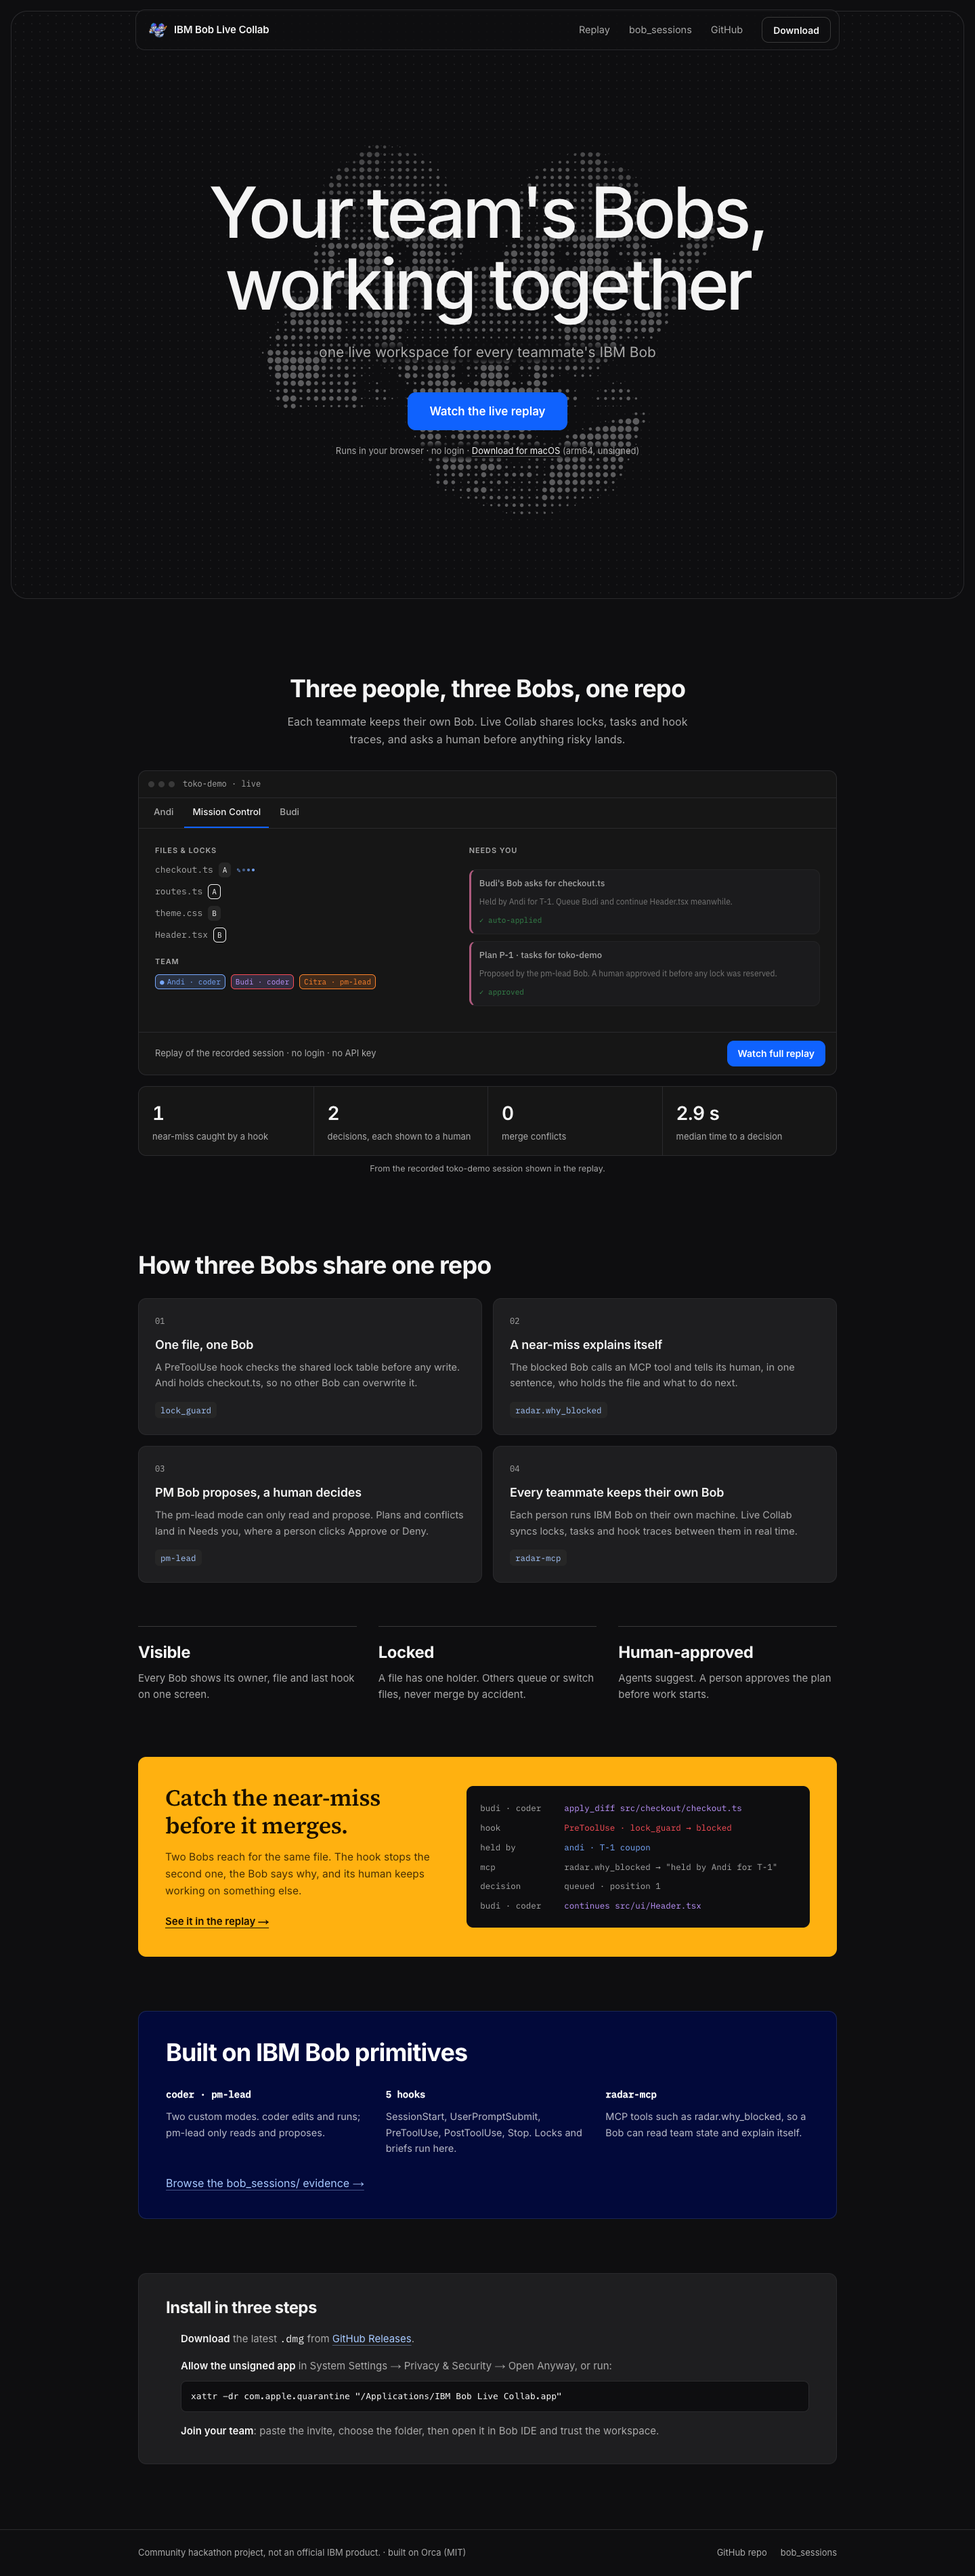
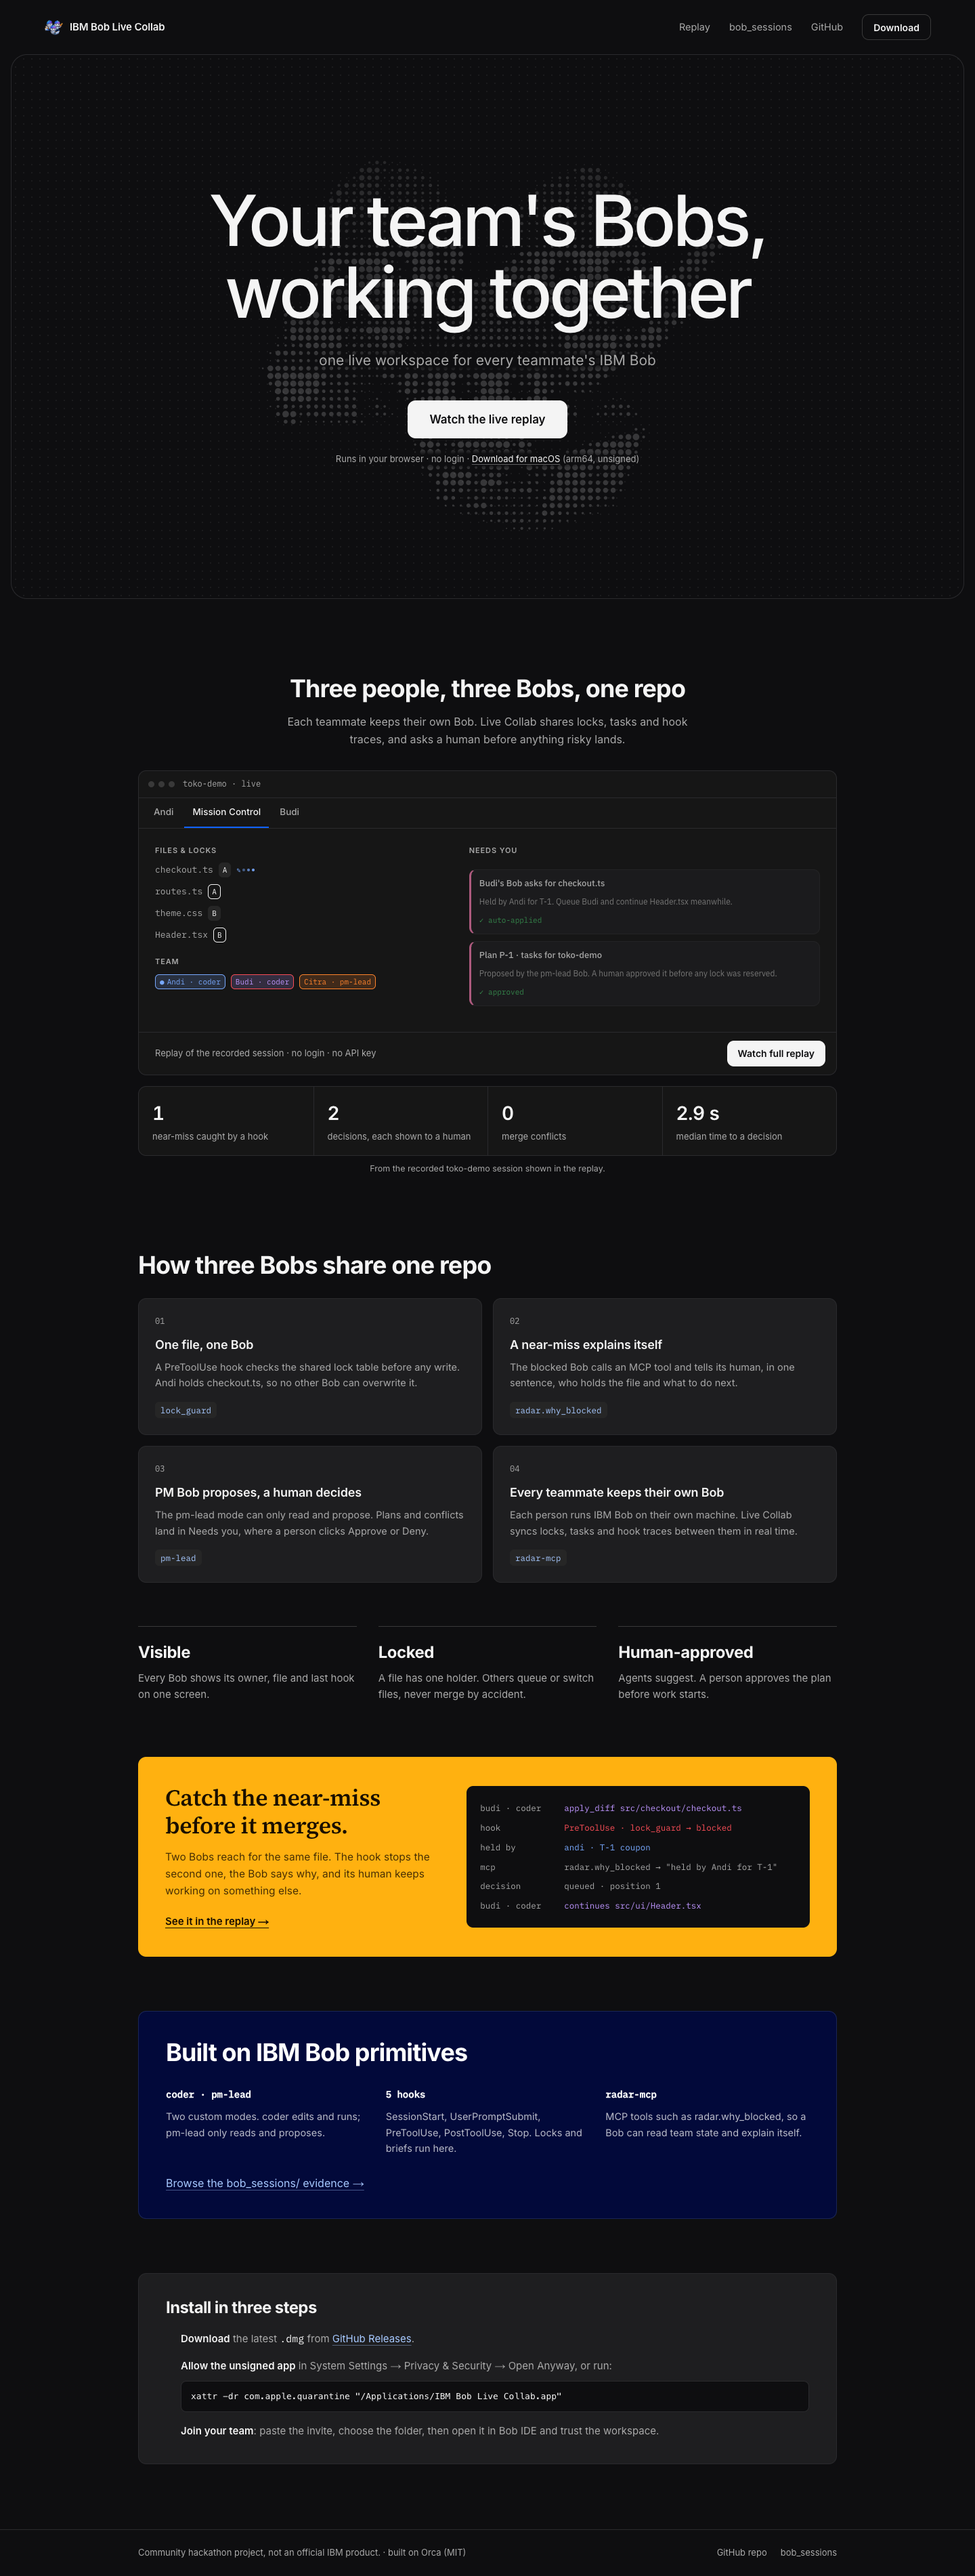
fase-11D1: full-width nav that morphs on scroll, white primary button
- Nav spans the page at the top and becomes a floating pill once the
  page scrolls; sections below the fold reveal on scroll (CSS view
  timeline, no JS)
- Primary button is white; halftone crew opacity 0.34 -> 0.18

diff --git a/radar/packages/web/app/page.tsx b/radar/packages/web/app/page.tsx
@@ -1,4 +1,5 @@
 import { Inter, Source_Serif_4 } from 'next/font/google';
+import { LandingNav } from '../src/landing-nav';
 import { LandingProductWindow } from '../src/landing-product-window';
 import { SITE } from '../src/site';
 import metaRaw from '../public/demo/meta.json';
@@ -100,27 +101,13 @@ export default function HomePage() {
         Skip to content
       </a>
 
-      <header className="lp-nav">
-        <a href="/" className="lp-wordmark">
-          {/* Plain <img>: static export has no image optimizer. */}
-          <img src="/brand/bob-crew.png" alt="" width={28} height={28} />
-          {SITE.title}
-        </a>
-        <nav aria-label="Primary" className="lp-nav-links">
-          <a href={SITE.demoPath} className="lp-nav-link lp-hide-sm">
-            Replay
-          </a>
-          <ExternalLink href={links.bobSessions} className="lp-nav-link lp-hide-sm">
-            bob_sessions
-          </ExternalLink>
-          <ExternalLink href={links.repoUrl} className="lp-nav-link lp-hide-sm">
-            GitHub
-          </ExternalLink>
-          <ExternalLink href={downloadUrl} className="lp-btn lp-btn-outline lp-btn-sm">
-            Download
-          </ExternalLink>
-        </nav>
-      </header>
+      <LandingNav
+        title={SITE.title}
+        demoPath={SITE.demoPath}
+        bobSessionsUrl={links.bobSessions}
+        repoUrl={links.repoUrl}
+        downloadUrl={downloadUrl}
+      />
 
       <main id="main">
         {/* Hero: one screen, one message, one button (Amoeba-like structure, our own brand). */}
@@ -147,7 +134,7 @@ export default function HomePage() {
         </section>
 
         {/* 18a-1..3: product window */}
-        <section className="lp-wrap lp-product" aria-labelledby="lp-see">
+        <section className="lp-wrap lp-product lp-reveal" aria-labelledby="lp-see">
           <h2 id="lp-see" className="lp-h2 lp-h2-center">
             Three people, three Bobs, one repo
           </h2>
@@ -168,7 +155,7 @@ export default function HomePage() {
         </section>
 
         {/* 18a-4: four mechanisms */}
-        <section className="lp-wrap lp-section" aria-labelledby="lp-how">
+        <section className="lp-wrap lp-section lp-reveal" aria-labelledby="lp-how">
           <h2 id="lp-how" className="lp-h2">
             How three Bobs share one repo
           </h2>
@@ -187,7 +174,7 @@ export default function HomePage() {
         </section>
 
         {/* 18a-4: three words */}
-        <section className="lp-wrap lp-words" aria-label="Principles">
+        <section className="lp-wrap lp-words lp-reveal" aria-label="Principles">
           {WORDS.map((w) => (
             <div key={w.word} className="lp-word">
               <h3>{w.word}</h3>
@@ -197,7 +184,7 @@ export default function HomePage() {
         </section>
 
         {/* Near-miss accent block. TODO(sync:imelda): add the near-miss GIF after the fase 10 recording. */}
-        <section className="lp-wrap lp-section" aria-labelledby="lp-nearmiss">
+        <section className="lp-wrap lp-section lp-reveal" aria-labelledby="lp-nearmiss">
           <div className="lp-marigold">
             <div className="lp-marigold-copy">
               <h2 id="lp-nearmiss">Catch the near-miss before it merges.</h2>
@@ -221,7 +208,7 @@ export default function HomePage() {
         </section>
 
         {/* Primitives (navy island) */}
-        <section className="lp-wrap lp-section" aria-labelledby="lp-primitives">
+        <section className="lp-wrap lp-section lp-reveal" aria-labelledby="lp-primitives">
           <div className="lp-navy">
             <h2 id="lp-primitives" className="lp-h2">
               Built on IBM Bob primitives
@@ -241,7 +228,7 @@ export default function HomePage() {
         </section>
 
         {/* Install */}
-        <section className="lp-wrap lp-section" aria-labelledby="lp-install">
+        <section className="lp-wrap lp-section lp-reveal" aria-labelledby="lp-install">
           <div className="lp-install">
             <h2 id="lp-install" className="lp-h2">
               Install in three steps

diff --git a/radar/packages/web/app/globals.css b/radar/packages/web/app/globals.css
@@ -59,25 +59,40 @@ body {
   top: 12px;
 }
 
-/* Nav: floating pill */
+/* Nav: full-width bar at the top, morphs into a floating pill on scroll (src/landing-nav.tsx) */
 .lp-nav {
   position: fixed;
-  top: 14px;
+  top: 0;
   left: 50%;
   z-index: 50;
   transform: translateX(-50%);
-  width: min(1040px, calc(100% - 32px));
-  height: 60px;
+  width: min(1320px, calc(100% - 48px));
+  height: 80px;
   display: flex;
   align-items: center;
   justify-content: space-between;
   gap: 16px;
+  padding: 0 4px;
+  background: rgba(14, 14, 16, 0);
+  border: 1px solid transparent;
+  border-radius: 14px;
+  transition:
+    top 420ms var(--lp-ease),
+    width 420ms var(--lp-ease),
+    height 420ms var(--lp-ease),
+    padding 420ms var(--lp-ease),
+    background-color 420ms ease,
+    border-color 420ms ease;
+}
+.lp-nav[data-scrolled='true'] {
+  top: 14px;
+  width: min(1040px, calc(100% - 32px));
+  height: 60px;
   padding: 0 12px 0 18px;
-  background: rgba(14, 14, 16, 0.78);
+  background: rgba(14, 14, 16, 0.8);
+  border-color: var(--lc-border);
   backdrop-filter: blur(12px);
   -webkit-backdrop-filter: blur(12px);
-  border: 1px solid var(--lc-border);
-  border-radius: 14px;
 }
 .lp-wordmark {
   display: inline-flex;
@@ -142,11 +157,11 @@ body {
   border-radius: 12px;
 }
 .lp-btn-primary {
-  background: var(--lc-accent);
-  color: #fff;
+  background: var(--lc-text);
+  color: var(--lc-bg);
 }
 .lp-btn-primary:hover {
-  background: #0353e9;
+  background: #ffffff;
 }
 .lp-btn-outline {
   color: var(--lc-text);
@@ -162,8 +177,8 @@ body {
   display: flex;
   align-items: center;
   justify-content: center;
-  min-height: max(640px, calc(100svh - 32px));
-  margin: 16px;
+  min-height: max(620px, calc(100svh - 96px));
+  margin: 80px 16px 16px;
   overflow: hidden;
   border: 1px solid var(--lc-border);
   border-radius: 24px;
@@ -176,12 +191,12 @@ body {
   background: url('/brand/bob-crew-halftone.svg') no-repeat 50% 64% / min(80vh, 780px);
   -webkit-mask-image: radial-gradient(ellipse at 50% 60%, #000 35%, transparent 72%);
   mask-image: radial-gradient(ellipse at 50% 60%, #000 35%, transparent 72%);
-  opacity: 0.34;
+  opacity: 0.18;
   animation: lp-fade 1200ms ease-out both;
 }
 .lp-hero {
   position: relative;
-  padding: 120px 24px 80px;
+  padding: 72px 24px 72px;
   text-align: center;
 }
 .lp-hero > * {
@@ -248,6 +263,24 @@ body {
 @keyframes lp-fade {
   from {
     opacity: 0;
+  }
+}
+
+@supports (animation-timeline: view()) {
+  .lp-reveal {
+    animation: lp-reveal linear both;
+    animation-timeline: view();
+    animation-range: entry 0% entry 60%;
+  }
+}
+@keyframes lp-reveal {
+  from {
+    opacity: 0;
+    transform: translateY(24px);
+  }
+  to {
+    opacity: 1;
+    transform: translateY(0);
   }
 }
 
@@ -762,12 +795,17 @@ body {
 
 @media (max-width: 640px) {
   .lp-nav {
+    width: calc(100% - 24px);
+    height: 64px;
+  }
+  .lp-nav[data-scrolled='true'] {
     top: 10px;
     width: calc(100% - 20px);
+    height: 56px;
     padding: 0 8px 0 12px;
   }
   .lp-stage {
-    margin: 8px;
+    margin: 64px 8px 8px;
     border-radius: 18px;
   }
   .lp-halftone {
@@ -781,7 +819,7 @@ body {
     padding: 0 16px;
   }
   .lp-hero {
-    padding: 104px 16px 56px;
+    padding: 56px 16px 56px;
   }
   .lp-product {
     padding-top: 64px;
@@ -815,6 +853,10 @@ body {
 }
 
 @media (prefers-reduced-motion: reduce) {
+  .lp-nav {
+    transition: none;
+  }
+  .lp-reveal,
   .lp-halftone,
   .lp-hero > *,
   .lp-window-body,

diff --git a/radar/packages/web/src/landing-nav.tsx b/radar/packages/web/src/landing-nav.tsx
@@ -1,0 +1,56 @@
+'use client';
+
+import { useEffect, useState } from 'react';
+
+// Full-width bar at the top of the page; morphs into a floating pill once the page scrolls.
+export function LandingNav({
+  title,
+  demoPath,
+  bobSessionsUrl,
+  repoUrl,
+  downloadUrl,
+}: {
+  title: string;
+  demoPath: string;
+  bobSessionsUrl: string;
+  repoUrl: string;
+  downloadUrl: string;
+}) {
+  const [scrolled, setScrolled] = useState(false);
+
+  useEffect(() => {
+    const onScroll = () => setScrolled(window.scrollY > 24);
+    onScroll();
+    window.addEventListener('scroll', onScroll, { passive: true });
+    return () => window.removeEventListener('scroll', onScroll);
+  }, []);
+
+  return (
+    <header className="lp-nav" data-scrolled={scrolled}>
+      <a href="/" className="lp-wordmark">
+        {/* Plain <img>: static export has no image optimizer. */}
+        <img src="/brand/bob-crew.png" alt="" width={28} height={28} />
+        {title}
+      </a>
+      <nav aria-label="Primary" className="lp-nav-links">
+        <a href={demoPath} className="lp-nav-link lp-hide-sm">
+          Replay
+        </a>
+        <a href={bobSessionsUrl} className="lp-nav-link lp-hide-sm" target="_blank" rel="noopener noreferrer">
+          bob_sessions
+        </a>
+        <a href={repoUrl} className="lp-nav-link lp-hide-sm" target="_blank" rel="noopener noreferrer">
+          GitHub
+        </a>
+        <a
+          href={downloadUrl}
+          className="lp-btn lp-btn-outline lp-btn-sm"
+          target="_blank"
+          rel="noopener noreferrer"
+        >
+          Download
+        </a>
+      </nav>
+    </header>
+  );
+}

diff --git a/plan/log/fase-11D1.md b/plan/log/fase-11D1.md
@@ -140,6 +140,18 @@ Pemicu user: "kurang clean … pas awal masuk udah penuh banget tulisannya … b
 
 Verifikasi: typecheck bersih · test 48/48 · eslint web bersih · build bersih · Playwright 18/18 (1440 + 390) · `scrollWidth` 1440/390 · 0 error console. Screenshot: `plan/log/ui-11D1/landing-{1440,390}.png`.
 
+## Sesi 26 Sep 18:40 · nav full-width + animasi scroll, tombol putih
+
+Permintaan user: nav full-width seperti Amoeba, animasi saat scroll, tombol "Watch the live replay" putih, opasitas ikon lebih tipis.
+
+- `src/landing-nav.tsx` (baru, client): di atas halaman nav = bar full-width transparan di atas stage; setelah `scrollY > 24` berubah jadi pill mengambang (top/lebar/tinggi/latar transisi 420 ms, ease-out). Listener `scroll` pasif.
+- Section di bawah fold (`.lp-reveal`) muncul naik 24px lewat CSS `animation-timeline: view()` — tanpa JS; browser tanpa dukungan langsung menampilkan konten.
+- `.lp-btn-primary` jadi putih (`--lc-text` di atas, teks `--lc-bg`) — berlaku juga untuk "Watch full replay" di window, supaya satu gaya tombol utama. Menyimpang dari DESIGN §5.11 (IBM Blue), lihat D-imelda-11.
+- Siluet halftone opasitas 0.34 → 0.18.
+- Semua motion mati di `prefers-reduced-motion`.
+
+Verifikasi: typecheck · test 48/48 · eslint web · build · Playwright 18/18 · `scrollWidth` 1440/390 · 0 error console · state `data-scrolled` dicek setelah scroll.
+
 ## Deviasi (lihat `plan/log/DECISIONS.md`)
 
 - **D-imelda-01**: fixture diambil dari `radar/scripts/mock-scenarios/demo.json` (skenario Alief, hanya dibaca) via capture `GET /v1/events/export`, di-*re-timestamp* dari `delayMs` kumulatifnya sendiri, ditambah satu `commit.created` sintetis di akhir untuk chapter "Commit". **TODO(sync:alief)**: ganti dengan `GET /v1/events/export` server asli setelah fase 05/06, dan dengan rekaman nyata setelah milestone fase 10 (di 11D2).

diff --git a/plan/log/DECISIONS.md b/plan/log/DECISIONS.md
@@ -348,6 +348,6 @@ Format:
 
 - Keputusan: layar pertama landing = satu pesan saja: nav pill mengambang (logo app + 3 link + Download), judul besar tanpa pill marigold, satu baris sub, **satu** tombol IBM Blue "Watch the live replay", caption dengan link "Download for macOS (arm64, unsigned)". Latar = siluet halftone logo app (`app/resources/icon.png` → `public/brand/bob-crew-halftone.svg` lewat `scripts/halftone-logo.py`). Semua konten lain (window produk, angka, mekanisme, near-miss, primitif, pasang) turun di bawah fold.
 - Alasan: permintaan user — layar pertama terlalu penuh tulisan. Struktur Amoeba (bukan mereknya).
-- Menyimpang dari DESIGN §5.11: pill marigold di hero dan tombol ghost kedua dihapus; teks "Privacy & Security → Open Anyway" pindah penuh ke bagian pasang (caption hero tetap sebut arm64 + unsigned).
+- Menyimpang dari DESIGN §5.11: pill marigold di hero dan tombol ghost kedua dihapus; tombol utama putih (bukan IBM Blue) atas permintaan user; nav full-width yang berubah jadi pill saat scroll; teks "Privacy & Security → Open Anyway" pindah penuh ke bagian pasang (caption hero tetap sebut arm64 + unsigned).
 - File ref/ yang diperbarui: –
 
